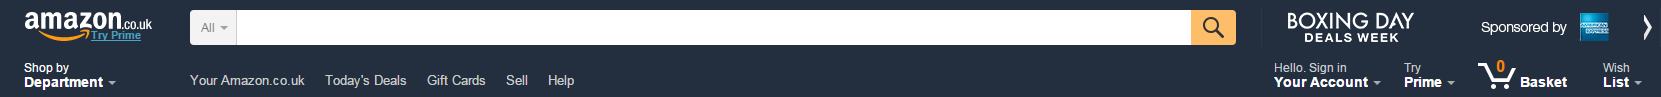
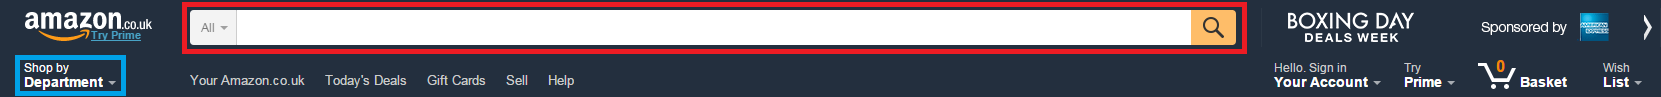
updated pictures

diff --git a/results.tex b/results.tex
@@ -1,5 +1,5 @@
 \subsection{Results for Co-discovery}
-The functionality primarily used while trying to solve the assignments was the main search bar, located at the top center, see \autoref{results:amazonsearchbar}. As well as the sorting function of the found results for a given search, sorted primarily by price, see \autoref{results:amazonsortby}.
+The functionality primarily used while trying to solve the assignments was the main search bar, located at the top center, see the red square in \autoref{results:amazonsearchbar}, and the sorting function of the found results for a given search, sorted primarily by price, see the red square in \autoref{results:amazonsortby}.
 
 \begin{figure}[h]
 \includegraphics[scale=0.3]{./includes/amazon_search_bar.png}
@@ -12,7 +12,6 @@ The functionality primarily used while trying to solve the assignments was the m
 \caption{Amazon sort search result by}
 \label{results:amazonsortby}
 \end{figure}
-\bjarke{find tool to highlight important parts of pictures, make red and blue square to be able to refer from multiple places to the squares}
 
 The functionality that we considered useful, and expected to be used, included the recommender system, and the category drop-down menu in the top left corner, which were never utilized, see the blue square in \autoref{results:amazonsearchbar} and the red square in \bjarke{inserted picture of recommender system}. Also the participants became rather confused when trying to find the relevant information regarding shipping of a certain product.
 
